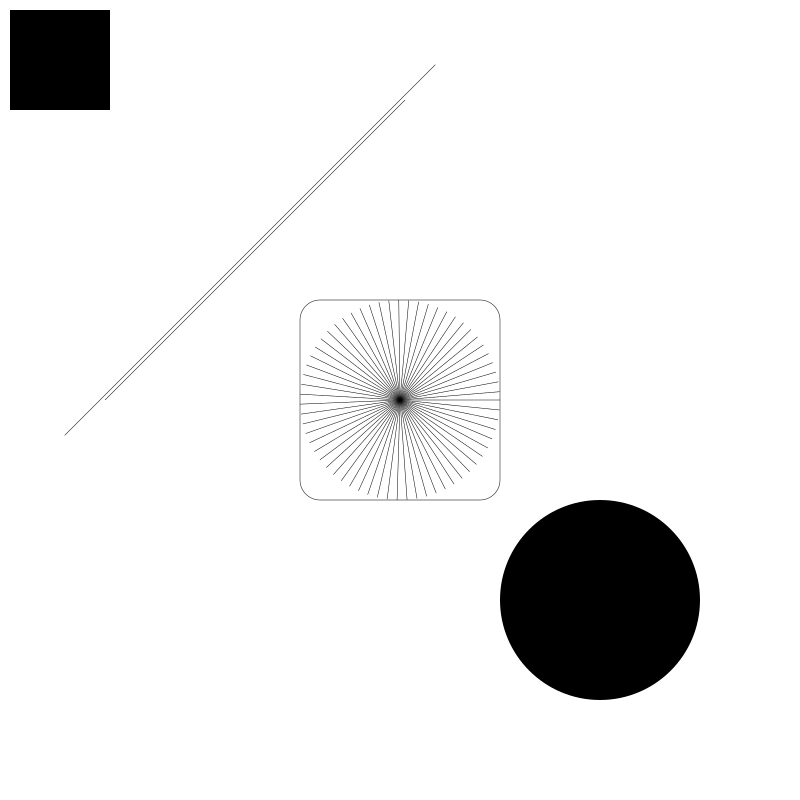
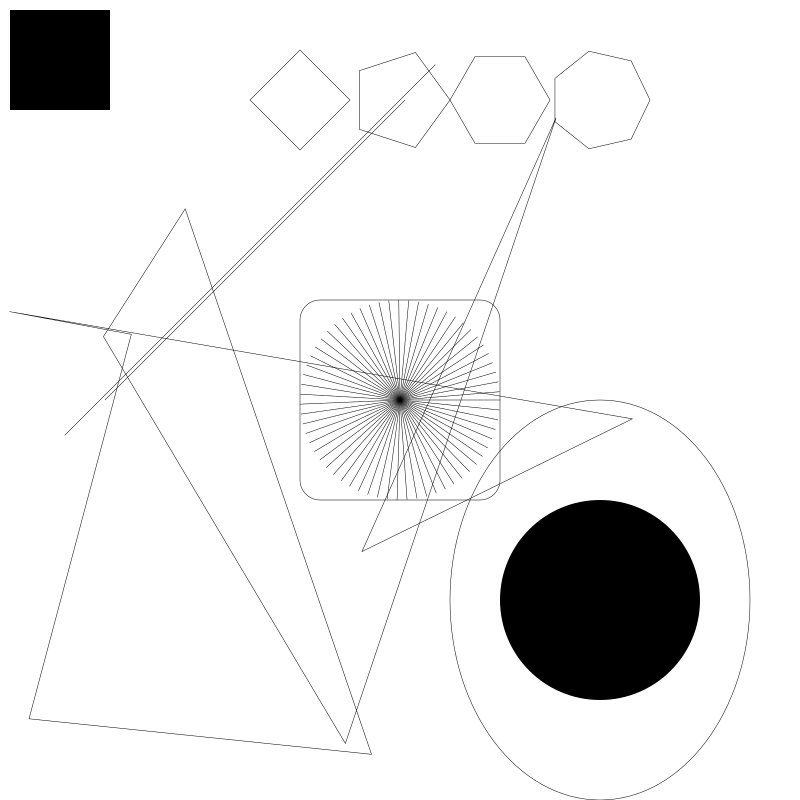
ellipse, path, point, polygon

diff --git a/drawing.c b/drawing.c
@@ -1,6 +1,7 @@
 #include <gtk/gtk.h>
 #include <math.h>
 #include "drawing.h"
+#include "point.h"
 
 
 void cairo_clear_rgb(cairo_t *cr, double r, double g, double b)
@@ -100,12 +101,96 @@ void cairo_circle(cairo_t *cr, double x, double y, double r) {
   cairo_arc(cr, x, y, r, 0, G_PI * 2);
 }
 
-void cairo_stroke_circle(cairo_t *cr, double x, double y, double r) {
+void cairo_stroke_circle(cairo_t *cr, double x, double y, double r)
+{
   cairo_circle(cr, x, y, r);
   cairo_stroke(cr);
 }
 
 void cairo_fill_circle(cairo_t *cr, double x, double y, double r) {
   cairo_circle(cr, x, y, r);
+  cairo_fill(cr);
+}
+
+void cairo_ellipse(cairo_t *cr, double x, double y, double xr, double yr)
+{
+  if (xr <= 0 || yr <= 0)
+  {
+    return;
+  }
+  cairo_save(cr);
+  cairo_translate(cr, x, y);
+  cairo_scale(cr, xr, yr);
+  cairo_circle(cr, 0, 0, 1);
+  cairo_restore(cr);
+}
+
+void cairo_stroke_ellipse(cairo_t *cr, double x, double y, double xr, double yr)
+{
+  cairo_ellipse(cr, x, y, xr, yr);
+  cairo_stroke(cr);
+}
+
+void cairo_fill_ellipse(cairo_t *cr, double x, double y, double xr, double yr)
+{
+  cairo_ellipse(cr, x, y, xr, yr);
+  cairo_fill(cr);
+}
+
+void draw_path(cairo_t *cr, point *head)
+{
+  point *curr;
+  curr = head;
+  while(curr != NULL)
+  {
+    cairo_line_to(cr, curr->x, curr->y); 
+    curr = curr->next;
+  }
+}
+
+void cairo_path(cairo_t *cr, point *path)
+{
+  draw_path(cr, path);
+}
+
+void cairo_stroke_path(cairo_t *cr, point *path, int close)
+{
+  cairo_path(cr, path);
+  if (close) {
+    cairo_close_path(cr);
+  }
+  cairo_stroke(cr);
+}
+
+void cairo_fill_path(cairo_t *cr, point *path)
+{
+  cairo_path(cr, path);
+  cairo_fill(cr);
+}
+
+void cairo_polygon(cairo_t *cr, double x, double y, double r, int sides, double rotation)
+{
+  double angle;
+  cairo_save(cr);
+  cairo_translate(cr, x, y);
+  cairo_move_to(cr, r, 0);
+  for (int i = 0; i < sides; i++)
+  {
+    angle = G_PI * 2 / (double)sides * (double)i;
+    cairo_line_to(cr, cos(angle) * r, sin(angle) * r);
+  }
+  cairo_line_to(cr, r, 0);
+  cairo_restore(cr);
+}
+
+void cairo_stroke_polygon(cairo_t *cr, double x, double y, double r, int sides, double rotation)
+{
+  cairo_polygon(cr, x, y, r, sides, rotation);
+  cairo_stroke(cr);
+}
+
+void cairo_fill_polygon(cairo_t *cr, double x, double y, double r, int sides, double rotation)
+{
+  cairo_polygon(cr, x, y, r, sides, rotation);
   cairo_fill(cr);
 }

diff --git a/drawing.h b/drawing.h
@@ -2,6 +2,7 @@
 #define _DRAWING_H_
 
 #include <gtk/gtk.h>
+#include "point.h"
 
 void cairo_clear_rgb(cairo_t *cr, double r, double g, double b);
 
@@ -20,5 +21,18 @@ void cairo_fill_round_rectangle(cairo_t *cr, double x, double y, double w, doubl
 void cairo_circle(cairo_t *cr, double x, double y, double r);
 void cairo_stroke_circle(cairo_t *cr, double x, double y, double r);
 void cairo_fill_circle(cairo_t *cr, double x, double y, double r);
+
+void cairo_ellipse(cairo_t *cr, double x, double y, double xr, double yr);
+void cairo_stroke_ellipse(cairo_t *cr, double x, double y, double xr, double yr);
+void cairo_fill_ellipse(cairo_t *cr, double x, double y, double xr, double yr);
+
+
+void cairo_path(cairo_t *cr, point *path);
+void cairo_stroke_path(cairo_t *cr, point *path, int close);
+void cairo_fill_path(cairo_t *cr, point *path);
+
+void cairo_polygon(cairo_t *cr, double x, double y, double r, int sides, double rotation);
+void cairo_stroke_polygon(cairo_t *cr, double x, double y, double r, int sides, double rotation);
+void cairo_fill_polygon(cairo_t *cr, double x, double y, double r, int sides, double rotation);
 
 #endif

diff --git a/main.c b/main.c
@@ -1,4 +1,6 @@
 #include <gtk/gtk.h>
+#include <math.h>
+#include "point.h"
 #include "drawing.h"
 
 int main(int argc, char **argv) {
@@ -24,6 +26,23 @@ int main(int argc, char **argv) {
   cairo_stroke(cr);
   
   cairo_fill_circle(cr, 600, 600, 100);
+  cairo_stroke_ellipse(cr, 600, 600, 150, 200);
+
+  g_random_set_seed(time(0));
+  point *path;
+  path = make_point(g_random_double_range(0, 800), g_random_double_range(0, 800));
+  for (int i = 1; i < 10; i++)
+  {
+    add_point(path, g_random_double_range(0, 800), g_random_double_range(0, 800));
+  }
+
+  cairo_stroke_path(cr, path, 1);
+
+  cairo_stroke_polygon(cr, 300, 100, 50, 4, 0);
+  cairo_stroke_polygon(cr, 400, 100, 50, 5, 0);
+  cairo_stroke_polygon(cr, 500, 100, 50, 6, 0);
+  cairo_stroke_polygon(cr, 600, 100, 50, 7, 0);
+
 
   cairo_surface_write_to_png(surface, "out.png");
 

diff --git a/point.c b/point.c
@@ -1,0 +1,26 @@
+#include <malloc.h>
+#include "point.h"
+
+point* make_point(double x, double y)
+{
+  point *p;
+  p = malloc(sizeof(point));
+  p->x = x;
+  p->y = y;
+  p->next = NULL;
+  return p;
+}
+
+void add_point(point *head, double x, double y)
+{
+  point *curr;
+  point *next;
+  curr = head;
+  while(curr->next != NULL)
+  {
+    curr = curr->next;
+  }
+  next = make_point(x, y);
+  curr->next = next;
+}
+

diff --git a/point.h b/point.h
@@ -1,0 +1,13 @@
+#ifndef _POINT_H_
+#define _POINT_H_
+
+typedef struct Point {
+  double x;
+  double y;
+  struct Point *next;
+} point;
+
+point* make_point(double x, double y);
+void add_point(point *head, double x, double y);
+
+#endif
